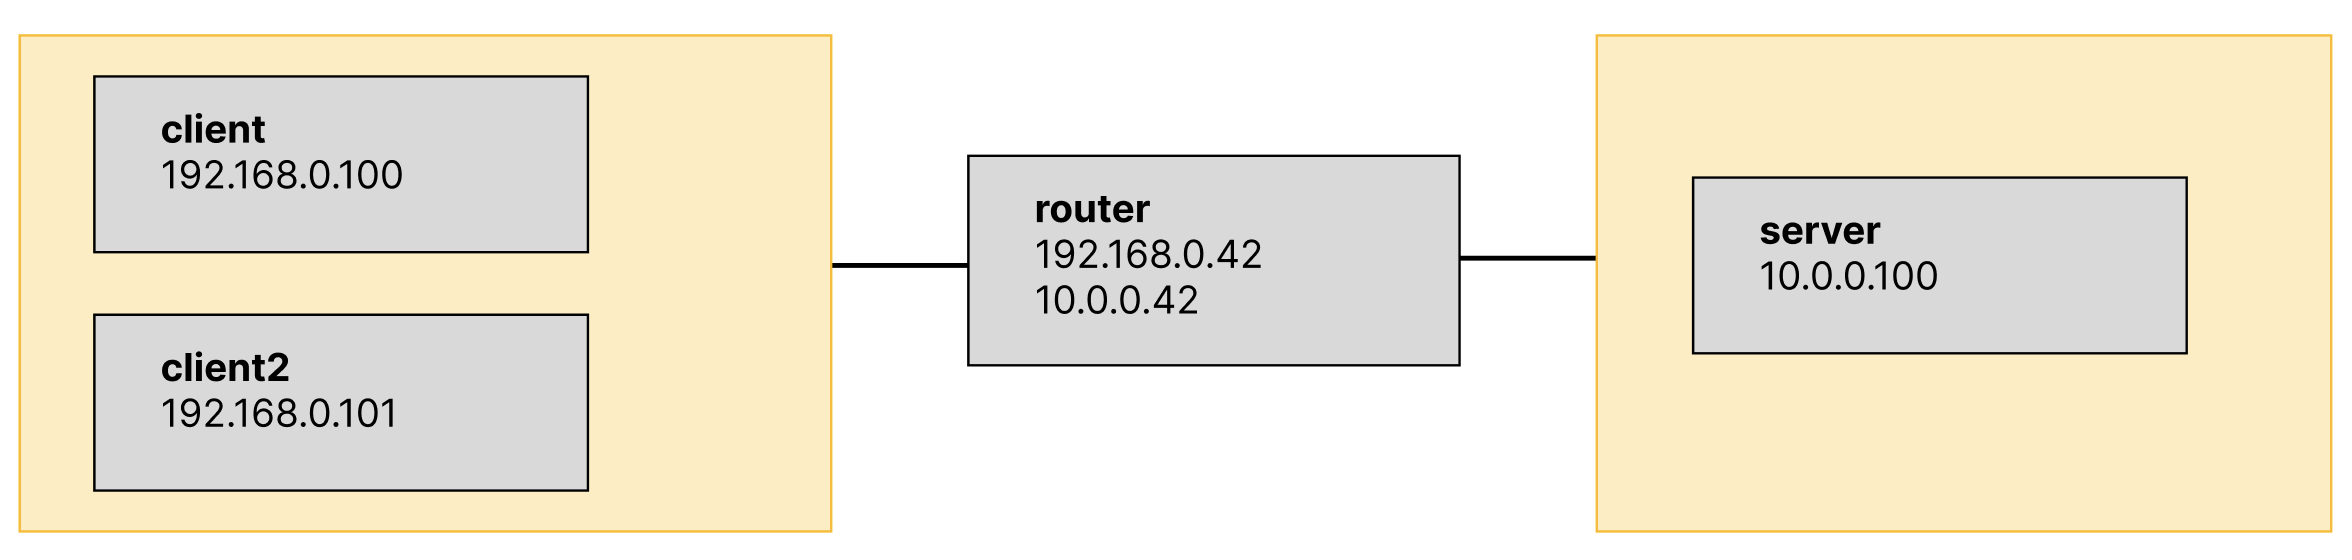
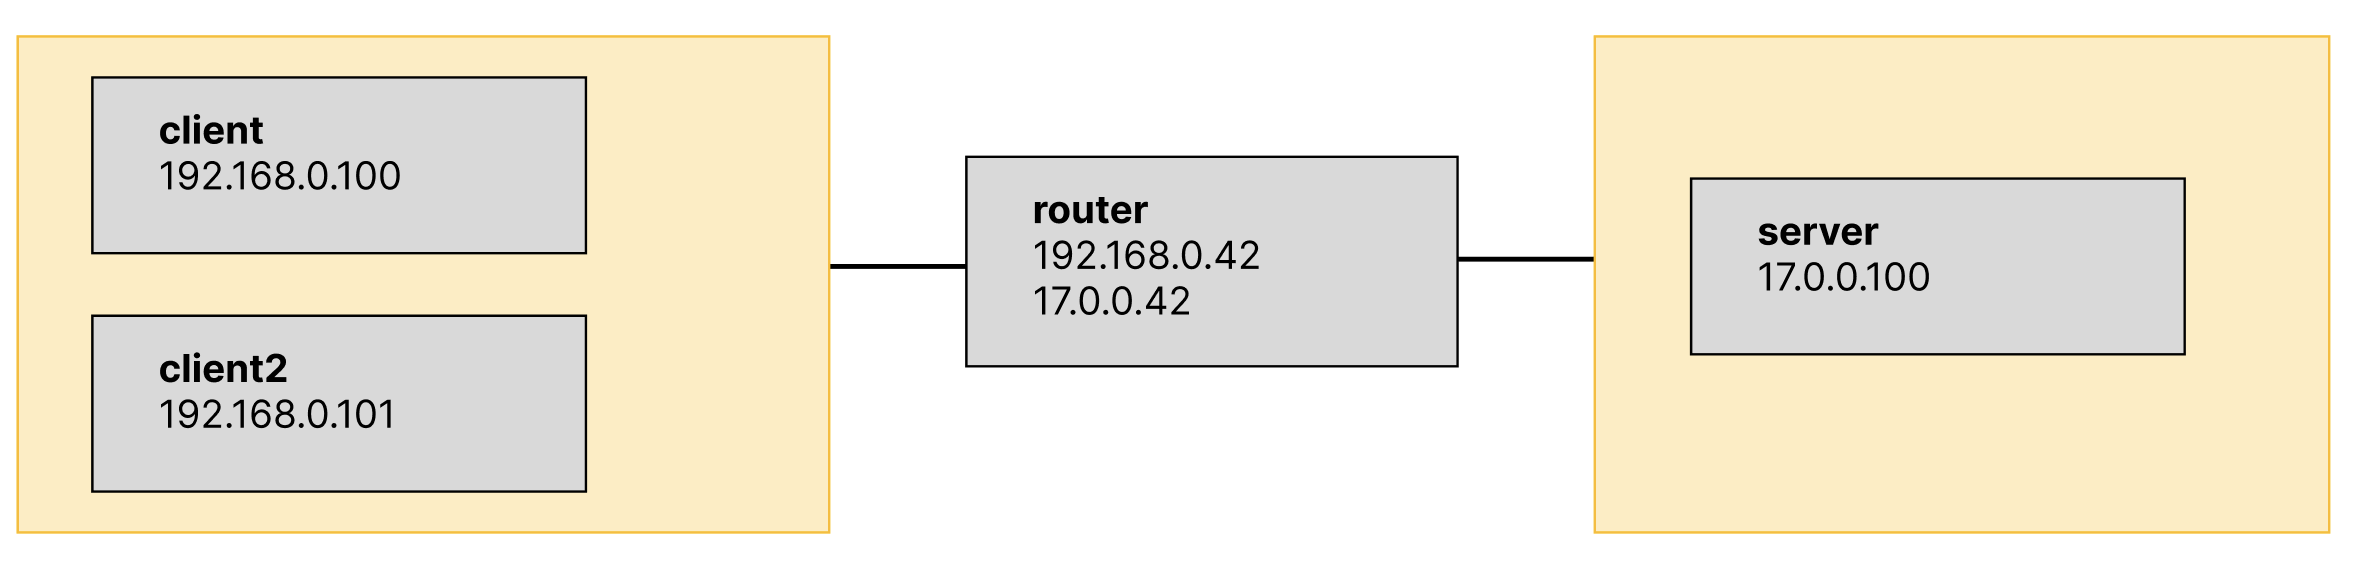
use a public IP address for the external network

diff --git a/README.md b/README.md
@@ -9,8 +9,8 @@ The setup only uses iptables to achieve NAT-ing.
 <img title="Network Setup" src="network.png">
 
 * The clients (192.168.0.0/16) are in a network that's assumed to be separate from the rest of the network by a NAT.
-* The server (10.0.0.100) is on the other side of the NAT.
-* The router (192.168.0.42 and 10.0.0.42, respectively) acts as a NAT between these two networks.
+* The server (17.0.0.100) is on the other side of the NAT. We intentionally use a public IP (see RFC 1918) here.
+* The router (192.168.0.42 and 17.0.0.42, respectively) acts as a NAT between these two networks.
 
 ## Running
 
@@ -69,7 +69,7 @@ Now in a separate terminal, open a shell on the first client, and establish a co
 ncat -v -p 45678 server 80
 ```
 
-On the server side, we now see an incoming connection originating from 10.0.0.42:45678. It makes sense that we see the connection originating from the router (that's exacty what a NAT is supposed to do). It looks like iptables chose to preserve the port number.
+On the server side, we now see an incoming connection originating from 17.0.0.42:45678. It makes sense that we see the connection originating from the router (that's exacty what a NAT is supposed to do). It looks like iptables chose to preserve the port number.
 
 To check that the NAT functions correctly, open a shell on the second client (`client2`), and establish another connection to the server, using the same source port:
 ```bash
